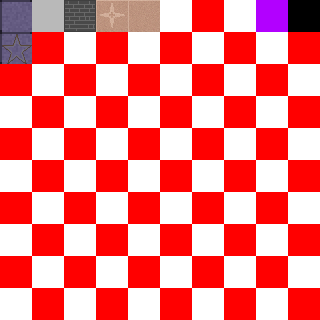
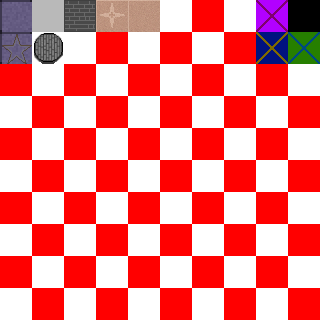
Map data: Define spawns in layer data. Add pillars to map design. Add more system "tiles" to tileset.

Changed region(s): [[0.7812, 0.0, 1.0, 0.2188], [0.0938, 0.0938, 0.2188, 0.2188], [0.875, 0.0, 0.9062, 0.0312]]

diff --git a/src/map/map.js b/src/map/map.js
@@ -61,9 +61,6 @@ var Map = Class.extend({
     tilesPerRow: 0,
 
     processData: function() {
-        // Kill any old soundscapes from previous map loads
-        Music.stopAll();
-
         // Load & prepare the tileset for rendering
         var tilesetSrc = this.data.tilesets[0].image;
         tilesetSrc = tilesetSrc.replace('../images/', '');
@@ -97,21 +94,24 @@ var Map = Class.extend({
         // Center the camera on the middle of the map to start out
         Camera.centerToMap();
 
+        // Add the player, and spawn them in the correct position
+        var player = new Player();
+        this.configurePlayerSpawn(player);
+        this.addPlayer(player);
+
+        // Spawns (NPCs) as defined in the map data
+        this.prepareMapSpawns();
+
         // Run ambient soundscapes
+        Music.stopAll();
+
         var props = this.data.properties;
         if (props.ambience) {
             Music.loopSound(this.data.properties.ambience);
         }
-
-        // Add the player, and spawn them in the correct position
-        var player = new Player();
-        this.configureSpawn(player);
-        this.addPlayer(player);
-
-        this.add(new Goblin());
     },
 
-    configureSpawn: function (playerEntity) {
+    configurePlayerSpawn: function (playerEntity) {
         var spawnSource = 'initial';
         if (Game.lastMapId != null) {
             spawnSource = Game.lastMapId;
@@ -145,6 +145,54 @@ var Map = Class.extend({
     blockedTiles: [],
     blockedRects: [],
     teleRects: [],
+
+    prepareMapSpawns: function() {
+        var layerCount = this.layers.length;
+
+        var x = -1;
+        var y = 0;
+
+        for (var i = 0; i < layerCount; i++) {
+            var layer = this.layers[i];
+            var spawnId = layer.properties.spawn;
+
+            if (spawnId == null) {
+                continue;
+            }
+
+            var layerDataLength = layer.data.length;
+
+            for (var tileIdx = 0; tileIdx < layerDataLength; tileIdx++) {
+                var tid = layer.data[tileIdx];
+
+                x++;
+
+                if (x >= this.width) {
+                    y++;
+                    x = 0;
+                }
+
+                if (tid === 0) {
+                    // Invisible (no tile set for this position)
+                    continue;
+                }
+
+                var entity = null;
+
+                // noinspection FallThroughInSwitchStatementJS
+                switch (spawnId) {
+                    default:
+                        console.warn('[Entity] Unknown spawn type, have a Goblin instead:', spawnId);
+                    case 'goblin':
+                        entity = new Goblin();
+                        break;
+                }
+
+                entity.setCoord(x, y);
+                this.add(entity);
+            }
+        }
+    },
 
     prepareBlockMap: function () {
         this.blockedTiles = [];
